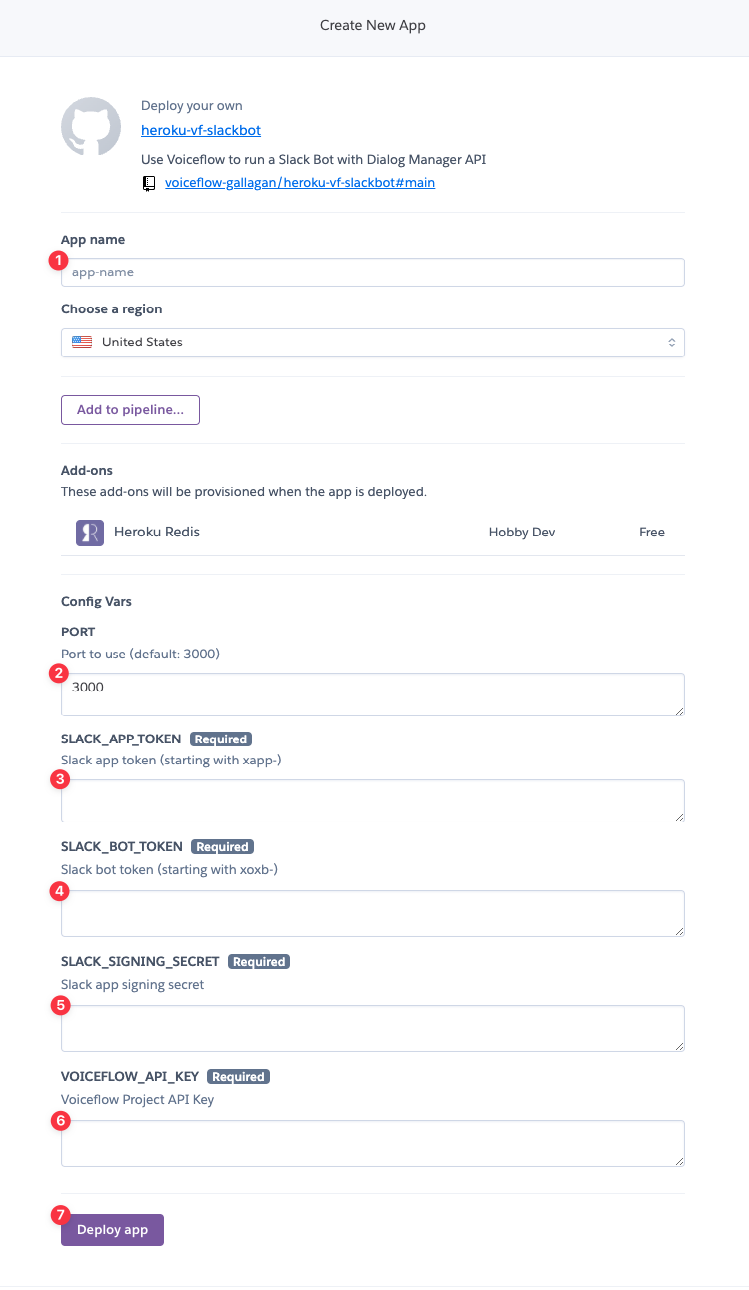
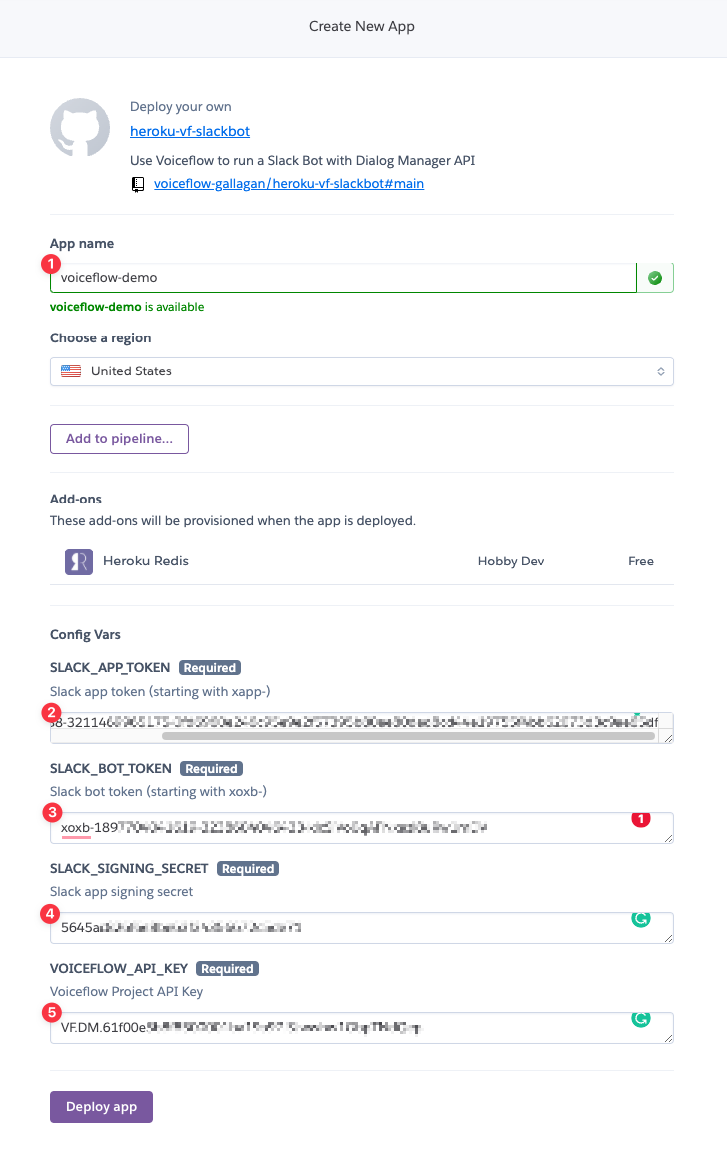
README Update

diff --git a/index.js b/index.js
@@ -337,6 +337,6 @@ async function interact(userID, say, client, request) {
   return true
 }
 
-// Enable graceful stop
-process.once('SIGINT', () => app.stop('SIGINT'))
-process.once('SIGTERM', () => app.stop('SIGTERM'))
+// Enable graceful stop | Do not use on Heroku
+// process.once('SIGINT', () => app.stop('SIGINT'))
+// process.once('SIGTERM', () => app.stop('SIGTERM'))

diff --git a/README.md b/README.md
@@ -16,7 +16,7 @@
 
 > Go to to https://api.slack.com/apps?new_app=1 to **create your Slack app**
 
-> Select <mark>**From an app manifest**</mark> 
+> Select <mark>**From an app manifest**</mark>
 
 
 ![Create a new Slack app](doc/images/slack/slack-create-app.png)
@@ -130,10 +130,10 @@
 
 ![Slack app bot token](doc/images/slack/slack-bot-user-token.png)
 
-> You should now have:  
-	a <mark>**secret key**</mark>  
-	an <mark>**app token**</mark>  
-	a <mark>**bot token**</mark>  
+> You should now have:
+	a <mark>**secret key**</mark>
+	an <mark>**app token**</mark>
+	a <mark>**bot token**</mark>
 
 <img src="doc/images/voiceflow/voiceflow-logo.png" alt="Voiceflow logo" width="180"/>
 
@@ -161,25 +161,22 @@
 > Choose a **name** for your app
 > Set the config var with all the info you've previously saved
 
-**PORT**  
-The port to use (default: **3000**)
-
-**SLACK\_APP\_TOKEN**  
+**SLACK\_APP\_TOKEN**
 Slack **app secret** (starting with **xapp-**)
 
-**SLACK\_BOT\_TOKEN**  
+**SLACK\_BOT\_TOKEN**
 Slack **bot token** (starting with **xoxb-**)
 
-**SLACK\_SIGNING\_SECRET**  
+**SLACK\_SIGNING\_SECRET**
 Slack app **signing secret**
 
-**VOICEFLOW\_API\_KEY**  
+**VOICEFLOW\_API\_KEY**
 Voiceflow **project API key** (from the Integration section)
 
 > Click on **Deploy app**
 
 ![Deploy](doc/images/heroku/heroku-setup.png)
-  
+
 > Wait for your app to be fully deployed
 
 ![Deploy](doc/images/heroku/heroku-deploy.png)
